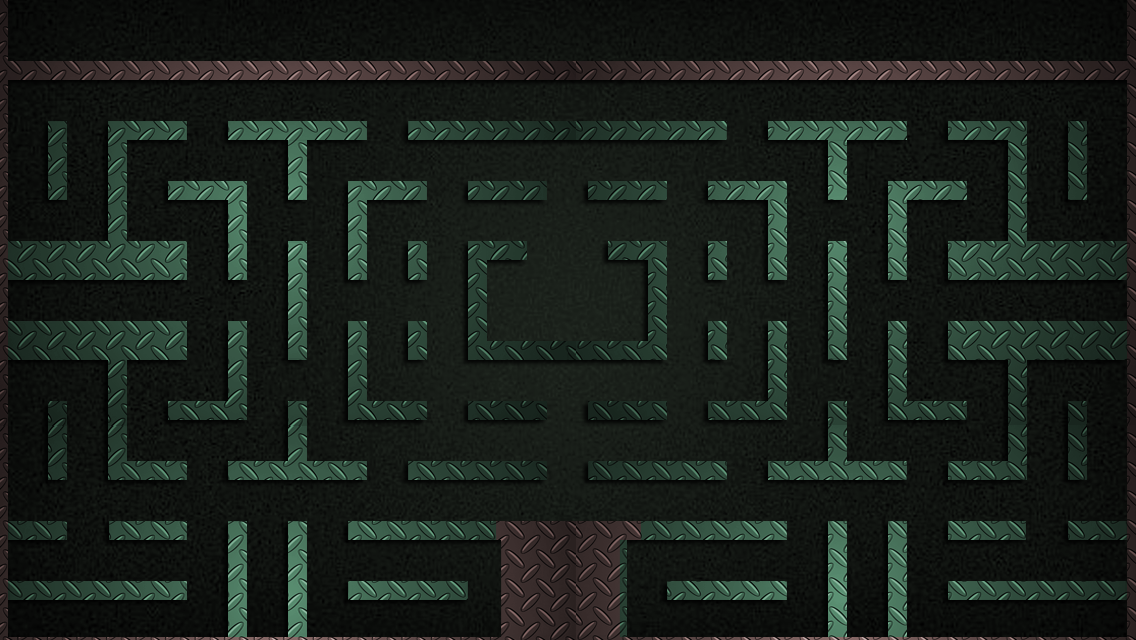
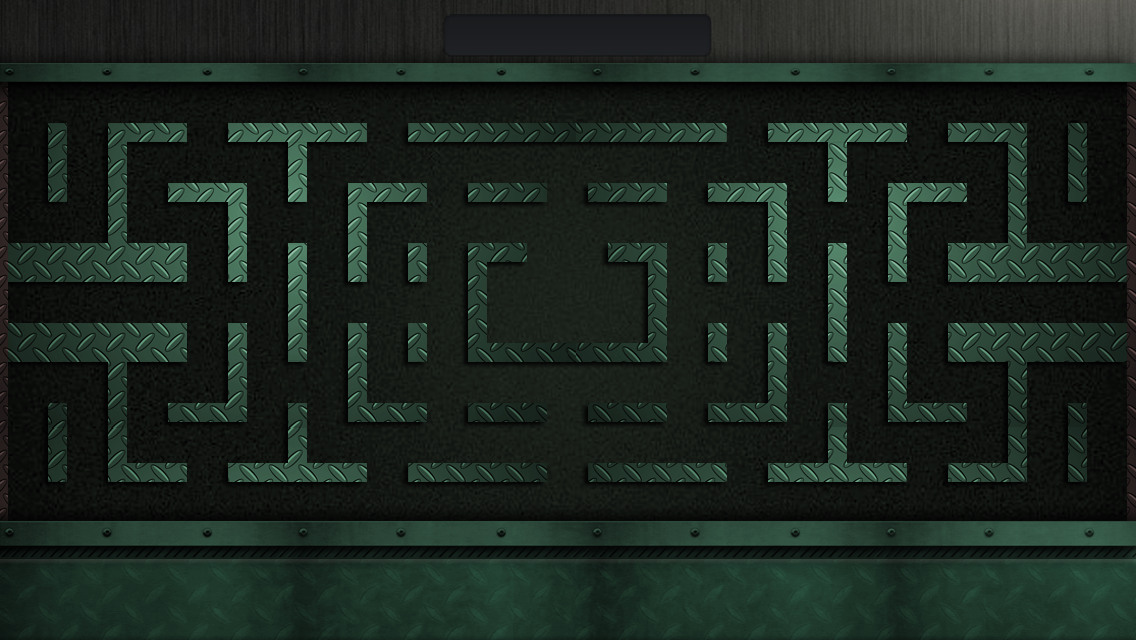
修改金属风格地图

diff --git a/GameData.m b/GameData.m
@@ -87,16 +87,16 @@ static GameData * sharedData = nil;
     _mapPngFile = @"IronGame_Background.png";
     _mapTextFile = @"IronMap";
     _mapWidthPoint = 56;
-    _mapHeightPoint = 29;
-    _mapPosition = CGPointMake(4, 0);
+    _mapHeightPoint = 24;
+    _mapPosition = CGPointMake(4, 50);
     
-    _playerPosition = CGPointMake(27, 12);
+    _playerPosition = CGPointMake(27, 7);
     _playerDirection = rightDirection;
     
     _monstersPosition = [NSMutableArray array];
-    [_monstersPosition addObject:[NSValue valueWithCGPoint:CGPointMake(25, 15)]];
-    [_monstersPosition addObject:[NSValue valueWithCGPoint:CGPointMake(27, 15)]];
-    [_monstersPosition addObject:[NSValue valueWithCGPoint:CGPointMake(29, 15)]];
+    [_monstersPosition addObject:[NSValue valueWithCGPoint:CGPointMake(25, 10)]];
+    [_monstersPosition addObject:[NSValue valueWithCGPoint:CGPointMake(27, 10)]];
+    [_monstersPosition addObject:[NSValue valueWithCGPoint:CGPointMake(29, 10)]];
     _monstersDirection = [NSMutableArray array];
     [_monstersDirection addObject:@(upDirection)];
     [_monstersDirection addObject:@(upDirection)];
